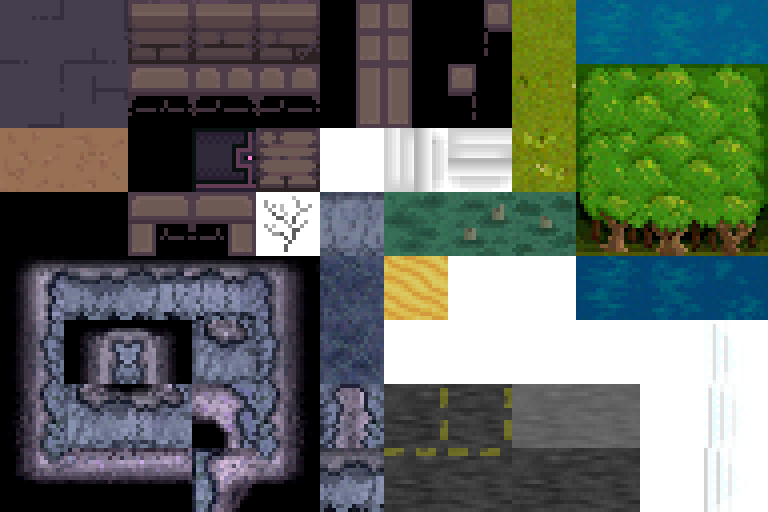
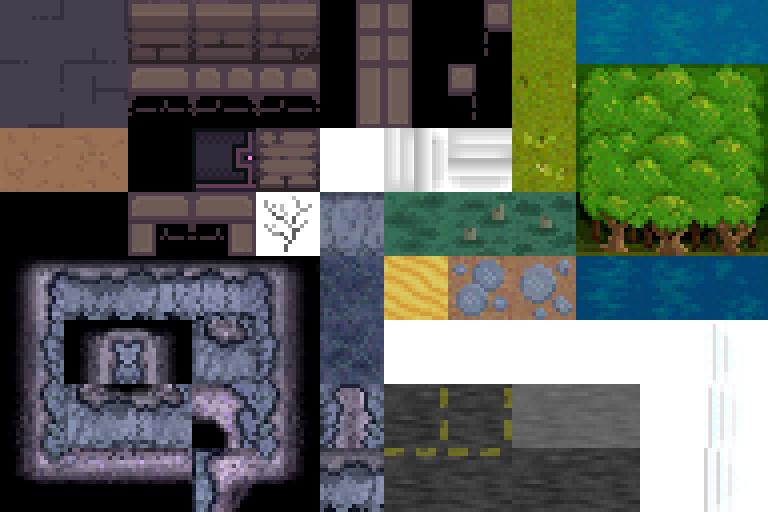
rocks terrain

Changed region(s): [[0.5625, 0.5, 0.75, 0.625]]

diff --git a/src/main/kotlin/world/terrains/Floors.kt b/src/main/kotlin/world/terrains/Floors.kt
@@ -127,13 +127,18 @@ object StoneFloor : Floor(Type.TERRAIN_STONEFLOOR, Glyph.STONE_FLOOR, false) {
 }
 
 object Dirt : Floor(Type.TERRAIN_DIRT, Glyph.DIRT, true) {
-    override fun overlapsOn() = setOf(Type.TERRAIN_STONEFLOOR, Type.TERRAIN_PAVEMENT)
+    override fun overlapsOn() = setOf(Type.TERRAIN_STONEFLOOR, Type.TERRAIN_PAVEMENT, Type.TERRAIN_ROCKS)
     override fun moveSpeed(actor: Actor) = 0.9f
     override fun stepSound(actor: Actor) = Speaker.SFX.STEPDIRT
 }
 
+object Rocks : Floor(Type.TERRAIN_ROCKS, Glyph.ROCKS, false) {
+    override fun moveSpeed(actor: Actor) = 1.4f
+    override fun stepSound(actor: Actor) = Speaker.SFX.STEPHARD
+}
+
 object Grass : Floor(Type.TERRAIN_GRASS, Glyph.GRASS, true) {
-    override fun overlapsOn() = setOf(Type.TERRAIN_STONEFLOOR, Type.TERRAIN_DIRT, Type.TERRAIN_PAVEMENT)
+    override fun overlapsOn() = setOf(Type.TERRAIN_STONEFLOOR, Type.TERRAIN_DIRT, Type.TERRAIN_PAVEMENT, Type.TERRAIN_ROCKS)
     override fun stepSound(actor: Actor) = Speaker.SFX.STEPGRASS
 }
 
@@ -144,15 +149,15 @@ object Swamp : Floor(Type.TERRAIN_SWAMP, Glyph.SWAMP, true) {
 }
 
 object Beach : Floor(Type.TERRAIN_BEACH, Glyph.BEACH, true) {
-    override fun overlapsOn() = setOf(Type.TERRAIN_DIRT, Type.TERRAIN_GRASS, Type.TERRAIN_PAVEMENT)
+    override fun overlapsOn() = setOf(Type.TERRAIN_DIRT, Type.TERRAIN_GRASS, Type.TERRAIN_PAVEMENT, Type.TERRAIN_ROCKS)
     override fun moveSpeed(actor: Actor) = 1.3f
-    override fun stepSound(actor: Actor) = Speaker.SFX.STEPDIRT
+    override fun stepSound(actor: Actor) = Speaker.SFX.STEPGRASS
 }
 
 object Sand : Floor(Type.TERRAIN_SAND, Glyph.BEACH, true) {
-    override fun overlapsOn() = setOf(Type.TERRAIN_DIRT, Type.TERRAIN_GRASS, Type.TERRAIN_PAVEMENT)
+    override fun overlapsOn() = setOf(Type.TERRAIN_DIRT, Type.TERRAIN_GRASS, Type.TERRAIN_PAVEMENT, Type.TERRAIN_ROCKS)
     override fun moveSpeed(actor: Actor) = 1.3f
-    override fun stepSound(actor: Actor) = Speaker.SFX.STEPDIRT
+    override fun stepSound(actor: Actor) = Speaker.SFX.STEPGRASS
 }
 
 object Pavement : Floor(Type.TERRAIN_PAVEMENT, Glyph.PAVEMENT, false) {

diff --git a/src/main/kotlin/world/gen/Metamap.kt b/src/main/kotlin/world/gen/Metamap.kt
@@ -449,8 +449,11 @@ object Metamap {
                 n++
                 scratches[city.x][city.y].biome = Ruins
                 if (n < numBigCities) {
-                    DIRECTIONS.forEach { dir ->
-                        if (Dice.chance(0.5f)) scratches[city.x + dir.x][city.y + dir.y].biome = Ruins
+                    DIRECTIONS.from(city.x, city.y) { dx, dy, _ ->
+                        if (Dice.chance(0.5f)) {
+                            scratches[dx][dy].biome = Ruins
+                            scratches[dx][dy].height = 1
+                        }
                     }
                 }
                 CARDINALS.forEach { dir ->
@@ -792,7 +795,7 @@ object Metamap {
         }
         adds.forEach {
             scratches[it.x][it.y].biome = biome
-            if (scratches[it.x][it.y].height < 1) scratches[it.x][it.y].height = 1
+            if (scratches[it.x][it.y].height < 1 && biome != Ocean) scratches[it.x][it.y].height = 1
         }
         adds.clear()
     }

diff --git a/src/main/kotlin/world/gen/biomes/Biome.kt b/src/main/kotlin/world/gen/biomes/Biome.kt
@@ -139,10 +139,11 @@ object Mountain : Biome(
     TERRAIN_DIRT
 ) {
     override fun terrainAt(x: Int, y: Int): Terrain.Type {
-        val v = NoisePatches.get("mountainShapes", x, y)
+        val v = NoisePatches.get("mountainShapes", x, y).toFloat()
         if (v > 0.65f) return Terrain.Type.TERRAIN_CAVEWALL
-        else if (v < 0.01f) return Terrain.Type.TERRAIN_SAND
-        else return Terrain.Type.TERRAIN_DIRT
+        else if (v < 0.2f) return Terrain.Type.TERRAIN_DIRT
+        else if (Dice.chance(1f - v * 2f)) return Terrain.Type.TERRAIN_DIRT
+        else return Terrain.Type.TERRAIN_ROCKS
     }
 
     override fun riverBankTerrain(x: Int, y: Int) = if (Dice.flip()) Terrain.Type.TERRAIN_GRASS else TERRAIN_DIRT

diff --git a/src/main/kotlin/world/terrains/Terrain.kt b/src/main/kotlin/world/terrains/Terrain.kt
@@ -31,6 +31,7 @@ sealed class Terrain(
             Type.TERRAIN_CAVEFLOOR -> CaveFloor
             Type.TERRAIN_STONEFLOOR -> StoneFloor
             Type.TERRAIN_DIRT -> Dirt
+            Type.TERRAIN_ROCKS -> Rocks
             Type.TERRAIN_GRASS -> Grass
             Type.TERRAIN_SWAMP -> Swamp
             Type.TERRAIN_BEACH -> Beach
@@ -67,6 +68,7 @@ sealed class Terrain(
         TERRAIN_STONEFLOOR,
         TERRAIN_CAVEFLOOR,
         TERRAIN_DIRT,
+        TERRAIN_ROCKS,
         TERRAIN_GRASS,
         TERRAIN_SWAMP,
         TERRAIN_BEACH,

diff --git a/src/main/kotlin/render/tilesets/TerrainTileSet.kt b/src/main/kotlin/render/tilesets/TerrainTileSet.kt
@@ -34,6 +34,11 @@ fun TerrainTileSet() =
             add(0.5f, 1, 2)
         })
 
+        setTile(Glyph.ROCKS, VariantsTile(this).apply {
+            add(0.5f, 7, 4)
+            add(0.5f, 8, 4)
+        })
+
         setTile(Glyph.GRASS, VariantsTile(this).apply {
             add(0.4f, 8, 0)
             add(0.4f, 8, 1)

diff --git a/src/main/kotlin/render/tilesets/Glyph.kt b/src/main/kotlin/render/tilesets/Glyph.kt
@@ -12,6 +12,7 @@ enum class Glyph {
     CAVE_FLOOR,
     STONE_FLOOR,
     DIRT,
+    ROCKS,
     GRASS,
     SWAMP,
     BEACH,
